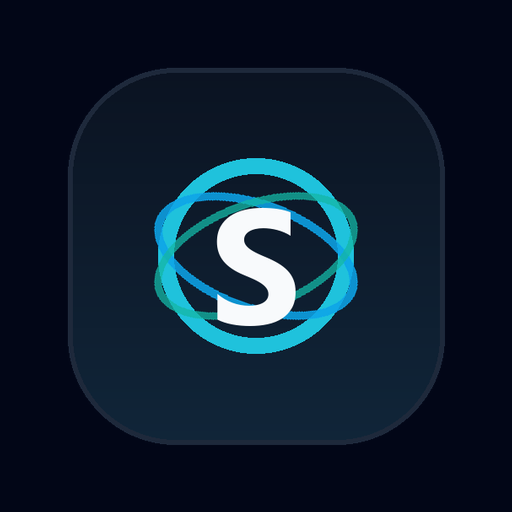
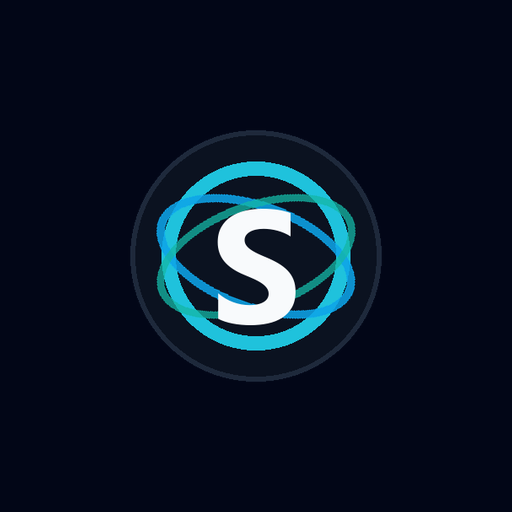
Fix input placeholder contrast

diff --git a/components/UI.tsx b/components/UI.tsx
@@ -76,7 +76,7 @@ export const Input = React.forwardRef<HTMLInputElement, InputProps>(({ label, er
     {label ? <label className="mb-2 block text-sm font-medium text-slate-700 dark:text-slate-200">{label}</label> : null}
     <input
       ref={ref}
-      className={`w-full rounded-2xl border border-slate-200/90 bg-white/92 px-4 py-3 text-sm text-slate-900 placeholder:text-slate-400 shadow-sm outline-none transition focus:border-sky-400 focus:ring-4 focus:ring-sky-100 dark:border-slate-700 dark:bg-slate-950 dark:text-white dark:placeholder:text-slate-500 dark:focus:border-sky-500 dark:focus:ring-sky-950 ${error ? 'border-rose-400 focus:border-rose-500 focus:ring-rose-100 dark:focus:ring-rose-950' : ''} ${className}`}
+      className={`w-full rounded-2xl border border-slate-200/90 bg-white/92 px-4 py-3 text-sm text-slate-900 placeholder:text-slate-500 shadow-sm outline-none transition focus:border-sky-400 focus:ring-4 focus:ring-sky-100 dark:border-slate-700 dark:bg-slate-950 dark:text-white dark:placeholder:text-slate-400 dark:focus:border-sky-500 dark:focus:ring-sky-950 ${error ? 'border-rose-400 focus:border-rose-500 focus:ring-rose-100 dark:focus:ring-rose-950' : ''} ${className}`}
       {...props}
     />
     {error ? <p className="mt-2 text-sm text-rose-600">{error}</p> : null}
@@ -88,7 +88,7 @@ Input.displayName = 'Input';
 export const Textarea = React.forwardRef<HTMLTextAreaElement, React.TextareaHTMLAttributes<HTMLTextAreaElement>>(({ className = '', ...props }, ref) => (
   <textarea
     ref={ref}
-    className={`w-full rounded-2xl border border-slate-200/90 bg-white/92 px-4 py-3 text-sm text-slate-900 placeholder:text-slate-400 shadow-sm outline-none transition focus:border-sky-400 focus:ring-4 focus:ring-sky-100 dark:border-slate-700 dark:bg-slate-950 dark:text-white dark:placeholder:text-slate-500 dark:focus:border-sky-500 dark:focus:ring-sky-950 ${className}`}
+    className={`w-full rounded-2xl border border-slate-200/90 bg-white/92 px-4 py-3 text-sm text-slate-900 placeholder:text-slate-500 shadow-sm outline-none transition focus:border-sky-400 focus:ring-4 focus:ring-sky-100 dark:border-slate-700 dark:bg-slate-950 dark:text-white dark:placeholder:text-slate-400 dark:focus:border-sky-500 dark:focus:ring-sky-950 ${className}`}
     {...props}
   />
 ));

diff --git a/components/Layout.tsx b/components/Layout.tsx
@@ -129,8 +129,8 @@ const Layout: React.FC = () => {
         <div className="mx-auto flex max-w-7xl items-center justify-between gap-4 px-4 py-4 sm:px-6 lg:px-8">
           <div className="flex items-center gap-4">
             <NavLink to="/" className="flex items-center gap-3" onClick={() => setIsMobileMenuOpen(false)}>
-              <div className="flex h-11 w-11 items-center justify-center overflow-hidden rounded-2xl shadow-lg shadow-sky-500/20 ring-1 ring-white/20 dark:ring-slate-700/60">
-                <img src="/brand-mark.svg" alt="StudySphere logo" className="h-full w-full object-cover" />
+              <div className="flex h-11 w-11 items-center justify-center">
+                <img src="/brand-mark.svg" alt="StudySphere logo" className="h-11 w-11 object-contain drop-shadow-[0_8px_16px_rgba(14,165,233,0.35)]" />
               </div>
               <div>
                 <div className="text-lg font-semibold tracking-tight">StudySphere</div>
